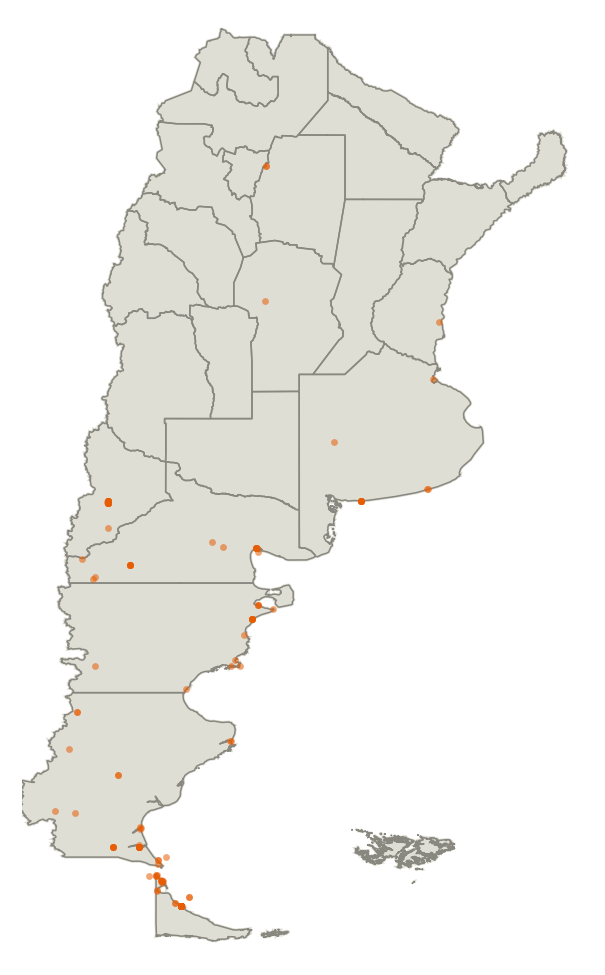
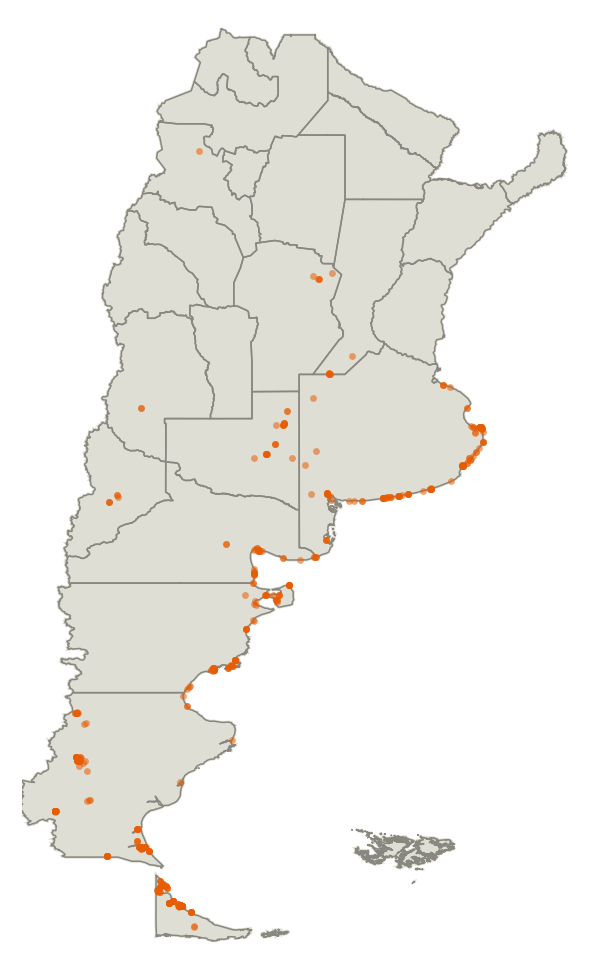
fix(especies): Chorlito Doble Collar con los registros de eBird (Anarhynchus falklandicus): provincias, residencia, AMBA y mapa
GBIF solo resolvía 433 de 18.639 registros por el cambio de género.

diff --git a/index.html b/index.html
@@ -695,7 +695,7 @@ const birds=[
 {id:19,num:"#053",n_lista:212,nombre_comun:"Tero",nombre_cientifico:"Vanellus chilensis",familia:"Charadriidae",orden:"Charadriiformes",descripcion:{adulto:"Ave mediana y llamativa. Cabeza gris con frente negra y una cresta fina y negra que cae hacia atrás. Banda ancha negra en el pecho. Dorso y alas pardo-grisáceos con un brillo bronceado y reflejos violáceos. Vientre blanco. Pico rojo-anaranjado con punta negra. Ojo rojo intenso con cera roja. Patas rojo oscuras. Posee espolones en las alas."},habitat:["pastizal","urbano","agrícola","ribereño","costa","humedal"],residencia:"permanente",tamanio:"mediano",largo_cm:33,envergadura_cm:75,estado:"LC",provincias:["Buenos Aires","CABA","Santa Fe","Entre Ríos","Corrientes","Misiones","Chaco","Formosa","Santiago del Estero","Córdoba","La Pampa","Mendoza","San Luis","Tucumán","Salta","Jujuy","Catamarca","La Rioja","San Juan","Neuquén","Río Negro","Chubut","Santa Cruz","Tierra del Fuego"],curiosidades:"Uno de los pájaros más territoriales y ruidosos de la región. Defiende su nido con vuelos rasantes y llamadas estridentes contra cualquier intruso. Posee espolones en las alas que usa como arma. Se ha adaptado muy bien a ambientes urbanos.",sprites:{adulto:"Vanellus_chilensis_D"},audio_ebird_code:"soulap1",mapa:"Maps/Vanellus_chilensis_map.png",thumb_sprite:"",exotica:false,amba:50.36},
 {id:212,num:"#054",n_lista:214,nombre_comun:"Chorlito Pecho Canela",nombre_cientifico:"Zonibyx modestus",familia:"Charadriidae",orden:"Charadriiformes",descripcion:{adulto:"Chorlito mediano. Fuera de la época de cría tiene el cuello y el pecho pardo ceniciento, con la banda negra del pecho poco notable. Frente y ceja blancas; cara grisácea. Pico negro. Ojo pardo. Corona, nuca, dorso y rabadilla pardos. Alas pardas. Cola parda con las plumas de los costados blancas. Vientre blanco. Patas gris verdosas. Macho y hembra son iguales.",reproductivo:"En plumaje de cría tiene el frente del cuello y el pecho canela rojizo, separados del blanco del vientre por una banda negra."},habitat:["costa","pastizal","laguna"],residencia:"invernal",tamanio:"mediano",largo_cm:"19-22",envergadura_cm:null,estado:"LC",provincias:["Buenos Aires","CABA","Chubut","Córdoba","Entre Ríos","La Pampa","Mendoza","Neuquén","Río Negro","Santa Cruz","Santa Fe","Tierra del Fuego"],curiosidades:"Cría en la Patagonia, Tierra del Fuego y Malvinas, y en otoño viaja al norte, por eso en Buenos Aires se ve de mayo a septiembre. Es bastante manso y confiado. En invierno anda en bandadas por playas, costas de lagunas y pastizales cortos.",sprites:{adulto:"Zonibyx_modestus_D"},audio_ebird_code:"rucdot1",mapa:"Maps/Zonibyx_modestus_map.png",thumb_sprite:"",exotica:false,amba:0.14},
 {id:215,num:"#055",n_lista:217,nombre_comun:"Chorlito de Collar",nombre_cientifico:"Charadrius collaris",familia:"Charadriidae",orden:"Charadriiformes",descripcion:{adulto:"Chorlito chico. Frente, garganta, una manchita detrás del ojo y partes inferiores blancas. Parte de adelante de la corona, línea entre el pico y el ojo y una banda en la parte alta del pecho negras. Cara, nuca y parte de atrás del cuello canela rojizo. Pico negro. Ojo pardo oscuro. Dorso pardo con los bordes de las plumas canela. Alas pardas. Cola parda con las plumas de los costados blanquecinas. Patas amarillo naranjas. Macho y hembra son iguales.",juvenil:"El juvenil es parecido al adulto, pero con la corona y el collar del pecho pardos."},habitat:["costa","laguna","ribereño"],residencia:"permanente",tamanio:"chico",largo_cm:"14-16",envergadura_cm:null,estado:"LC",provincias:["Buenos Aires","CABA","Catamarca","Chaco","Chubut","Corrientes","Córdoba","Entre Ríos","Formosa","Jujuy","La Pampa","Mendoza","Neuquén","Río Negro","Salta","San Luis","Santa Fe","Santiago del Estero","Tucumán"],curiosidades:"Es el chorlito más chico de la Argentina. Corre rápido por playas de arena y barro de ríos y lagunas, se frena de golpe y picotea, siempre alternando carreras y paradas. Anda solo, en pareja o en grupos chicos, y pone los huevos en un hueco simple en la arena.",sprites:{adulto:"Charadrius_collaris_D"},audio_ebird_code:"colplo1",mapa:"Maps/Charadrius_collaris_map.png",thumb_sprite:"",exotica:false,amba:0.48},
-{id:145,num:"#056",n_lista:219,nombre_comun:"Chorlito Doble Collar",nombre_cientifico:"Charadrius falklandicus",familia:"Charadriidae",orden:"Charadriiformes",descripcion:{adulto:"Chorlito chico y rechoncho, de patas cortas. Así se lo ve en Buenos Aires, con plumaje de descanso: frente blanca, cabeza y dorso pardo grisáceos, y dos collares pardo grisáceos sobre el pecho blanco, uno fino en el cuello y otro más ancho. Pico corto y negro. Ojo pardo. Patas negras.",reproductivo:"En plumaje de cría tiene una banda negra adelante de la corona, la parte de atrás de la corona y la nuca canela rojizas, y los dos collares negros. La hembra tiene el canela más apagado y el negro más pardusco."},habitat:["costa","humedal","laguna"],residencia:"invernal",tamanio:"chico",largo_cm:"18-19",envergadura_cm:null,estado:"LC",provincias:["Buenos Aires","Chubut","Neuquén","Río Negro","Santa Cruz","Tierra del Fuego"],curiosidades:"Cría en la Patagonia y en Malvinas, en pastizales inundados y orillas de lagunas, y en otoño e invierno muchos viajan hacia el norte para pasar la temporada fría en playas y estuarios de Buenos Aires, Uruguay y el sur de Brasil. Corre rápido por la arena o el barro, se detiene de golpe y picotea pequeños invertebrados.",sprites:{adulto:"Charadrius_falklandicus_D",reproductivo:"Charadrius_falklandicus_R"},audio_ebird_code:"twbplo1",mapa:"Maps/Charadrius_falklandicus_map.png",thumb_sprite:"",exotica:false,amba:0.0},
+{id:145,num:"#056",n_lista:219,nombre_comun:"Chorlito Doble Collar",nombre_cientifico:"Charadrius falklandicus",familia:"Charadriidae",orden:"Charadriiformes",descripcion:{adulto:"Chorlito chico y rechoncho, de patas cortas. Así se lo ve en Buenos Aires, con plumaje de descanso: frente blanca, cabeza y dorso pardo grisáceos, y dos collares pardo grisáceos sobre el pecho blanco, uno fino en el cuello y otro más ancho. Pico corto y negro. Ojo pardo. Patas negras.",reproductivo:"En plumaje de cría tiene una banda negra adelante de la corona, la parte de atrás de la corona y la nuca canela rojizas, y los dos collares negros. La hembra tiene el canela más apagado y el negro más pardusco."},habitat:["costa","humedal","laguna"],residencia:"permanente",tamanio:"chico",largo_cm:"18-19",envergadura_cm:null,estado:"LC",provincias:["Buenos Aires","Chubut","Córdoba","La Pampa","Mendoza","Neuquén","Río Negro","Santa Cruz","Santa Fe","Tierra del Fuego"],curiosidades:"Cría en la Patagonia y en Malvinas, en pastizales inundados y orillas de lagunas, y en otoño e invierno muchos viajan hacia el norte para pasar la temporada fría en playas y estuarios de Buenos Aires, Uruguay y el sur de Brasil. Corre rápido por la arena o el barro, se detiene de golpe y picotea pequeños invertebrados.",sprites:{adulto:"Charadrius_falklandicus_D",reproductivo:"Charadrius_falklandicus_R"},audio_ebird_code:"twbplo1",mapa:"Maps/Charadrius_falklandicus_map.png",thumb_sprite:"",exotica:false,amba:0.05},
 {id:99,num:"#057",n_lista:221,nombre_comun:"Ostrero Pardo",nombre_cientifico:"Haematopus palliatus",familia:"Haematopodidae",orden:"Charadriiformes",descripcion:{adulto:"Ave playera grande y robusta. Cabeza, cuello y pecho negros. Pico muy largo, recto, fuerte y aplanado de los costados, rojo anaranjado. Ojo amarillo, con un anillo rojo alrededor. Dorso, alas y cola pardo oscuros, con una franja blanca en el ala que se ve sobre todo en vuelo. Vientre blanco, bien separado del pecho negro. Patas rosadas pálidas. Macho y hembra son iguales.",juvenil:"El juvenil tiene el dorso con aspecto escamado por los bordes claros de las plumas, el pico más apagado con la punta oscura, el ojo oscuro y las patas más apagadas."},habitat:["costa"],residencia:"permanente",tamanio:"mediano",largo_cm:"40-44",envergadura_cm:"76-86",estado:"LC",provincias:["Buenos Aires","Río Negro","Chubut","Santa Cruz","Tierra del Fuego"],curiosidades:"Es el ostrero más común de la provincia de Buenos Aires y recorre toda la costa atlántica argentina hasta Tierra del Fuego. Usa su pico largo y aplanado como un cuchillo: lo mete entre las valvas de mejillones, ostras y almejas y corta el músculo que las cierra; también come cangrejos y gusanos que saca de la arena. Se alimenta con la marea baja y descansa con la marea alta, muchas veces cerca de bandadas de gaviotas. Hace el nido en un simple hoyo en la arena o el pedregullo de la playa, a veces forrado con conchillas, donde pone 2 o 3 huevos manchados que se confunden con el suelo.",sprites:{adulto:"Haematopus_palliatus_D",juvenil:"Haematopus_palliatus_J",vuelo:"Haematopus_palliatus_V"},audio_ebird_code:"ameoys",mapa:"Maps/Haematopus_palliatus_map.png",thumb_sprite:"",exotica:false,amba:0.0},
 {id:20,num:"#058",n_lista:224,nombre_comun:"Tero Real",nombre_cientifico:"Himantopus mexicanus",familia:"Recurvirostridae",orden:"Charadriiformes",descripcion:{adulto:"Ave esbelta y elegante de patas extremadamente largas. Partes superiores negro intenso. Partes inferiores, cuello frontal y cara blancos. Pico fino, largo y recto, negro. Ojo rojo. Patas rosadas a rojas, notablemente largas, que sobresalen bien por detrás de la cola al volar. Sexos similares, con variación en el negro del cuello."},habitat:["humedal","ribereño","costa","pastizal"],residencia:"permanente",tamanio:"mediano",largo_cm:37,envergadura_cm:null,estado:"LC",provincias:["Buenos Aires","CABA","Santa Fe","Entre Ríos","Corrientes","Misiones","Chaco","Formosa","Córdoba","La Pampa","Mendoza","Neuquén","Río Negro","Chubut"],curiosidades:"Sus patas rosadas son las más largas en proporción al cuerpo de cualquier ave argentina. Anida en el suelo cerca del agua y defiende activamente el nido ante cualquier intruso, incluyendo personas. Se lo ve en lagunas, bañados y costas, donde vadea en aguas poco profundas buscando invertebrados.",sprites:{adulto:"Himantopus_mexicanus_D"},audio_ebird_code:"bknsti",mapa:"Maps/Himantopus_mexicanus_map.png",thumb_sprite:"",exotica:false,amba:6.3},
 {id:205,num:"#059",n_lista:226,nombre_comun:"Paloma Antártica",nombre_cientifico:"Chionis albus",familia:"Chionidae",orden:"Charadriiformes",descripcion:{adulto:"Ave mediana y robusta, parecida a una paloma, toda blanca. Cara con piel desnuda rosada y verrugas blanquecinas debajo del ojo. Pico corto y grueso, verdoso y amarillo en la base, con una vaina córnea, y negro o pardo en la punta. Ojo pardo. Patas grises o azuladas. Macho y hembra son iguales; el macho es algo más grande."},habitat:["costa"],residencia:"invernal",tamanio:"mediano",largo_cm:"38-41",envergadura_cm:null,estado:"LC",provincias:["Buenos Aires","Chubut","Río Negro","Santa Cruz","Tierra del Fuego"],curiosidades:"Es la única ave de la Antártida que no tiene patas palmeadas: camina por las playas y las colonias de pingüinos y lobos marinos comiendo lo que encuentra, desde restos y huevos hasta excrementos. En invierno muchas viajan al norte y llegan a la costa bonaerense.",sprites:{adulto:"Chionis_albus_D"},audio_ebird_code:"snoshe2",mapa:"Maps/Chionis_albus_map.png",thumb_sprite:"",exotica:false,amba:0.0},

diff --git a/sw.js b/sw.js
@@ -1,4 +1,4 @@
-const CACHE = 'aviario-v149';
+const CACHE = 'aviario-v150';
 const ASSETS = [
   './index.html',
   './manifest.json',

diff --git a/generar_mapas.py b/generar_mapas.py
@@ -113,6 +113,7 @@ GBIF_ALIAS = {
     'Rufirallus leucopyrrhus': ('taxonKey', '4852342'),  # GBIF no resuelve el nombre, sí el taxonKey
     'Chloris chloris': ('taxonKey', '5845582'),  # el nombre choca con un género de plantas
     'Astur bicolor': ('taxonKey', '3242735'),  # eBird aún lo publica como Accipiter bicolor
+    'Charadrius falklandicus': ('verbatimScientificName', 'Anarhynchus falklandicus'),  # eBird usa el género nuevo
 }
 
 

diff --git a/calcular_amba.py b/calcular_amba.py
@@ -29,6 +29,7 @@ GBIF_ALIAS = {
     'Rufirallus leucopyrrhus': 'taxonKey=4852342',  # GBIF no resuelve el nombre, sí el taxonKey
     'Chloris chloris': 'taxonKey=5845582',  # el nombre choca con un género de plantas
     'Astur bicolor': 'taxonKey=3242735',  # eBird aún lo publica como Accipiter bicolor
+    'Charadrius falklandicus': 'verbatimScientificName=Anarhynchus%20falklandicus',  # eBird usa el género nuevo
 }
 
 
